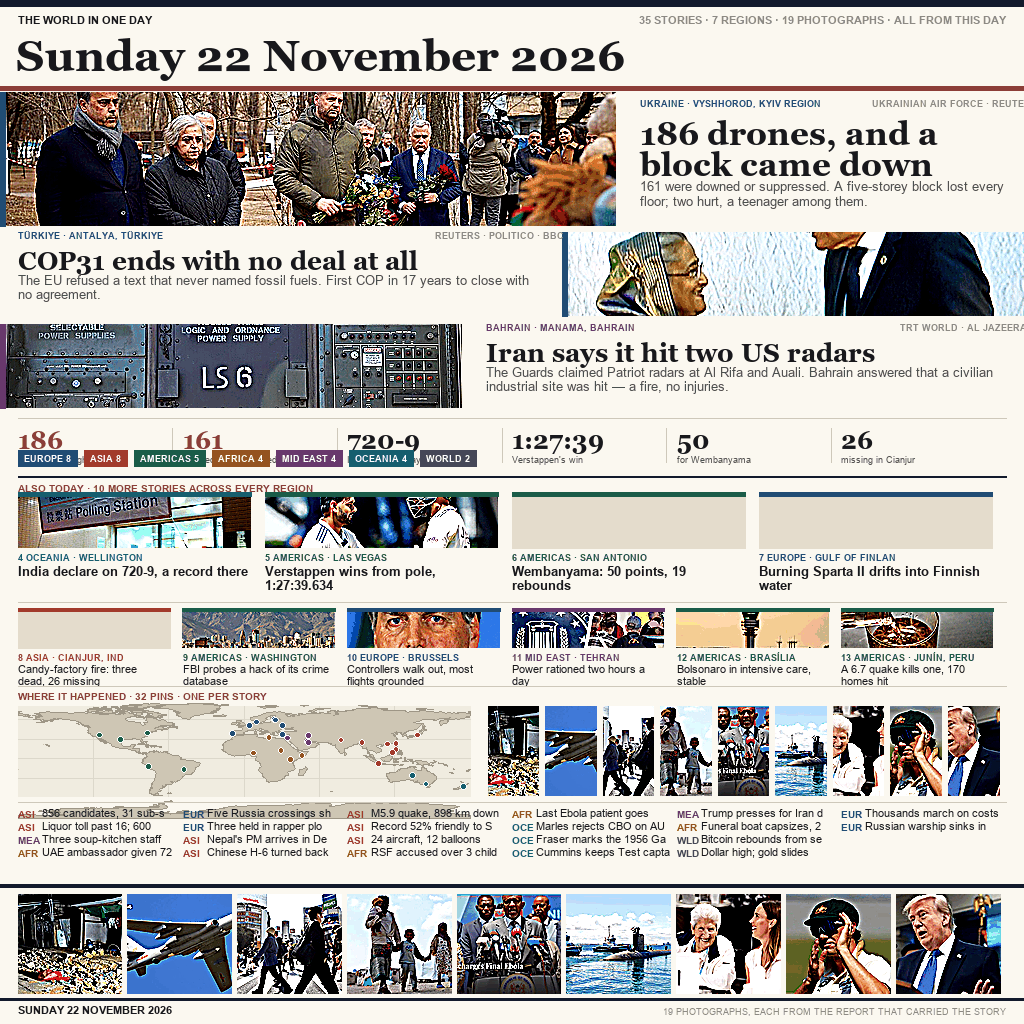
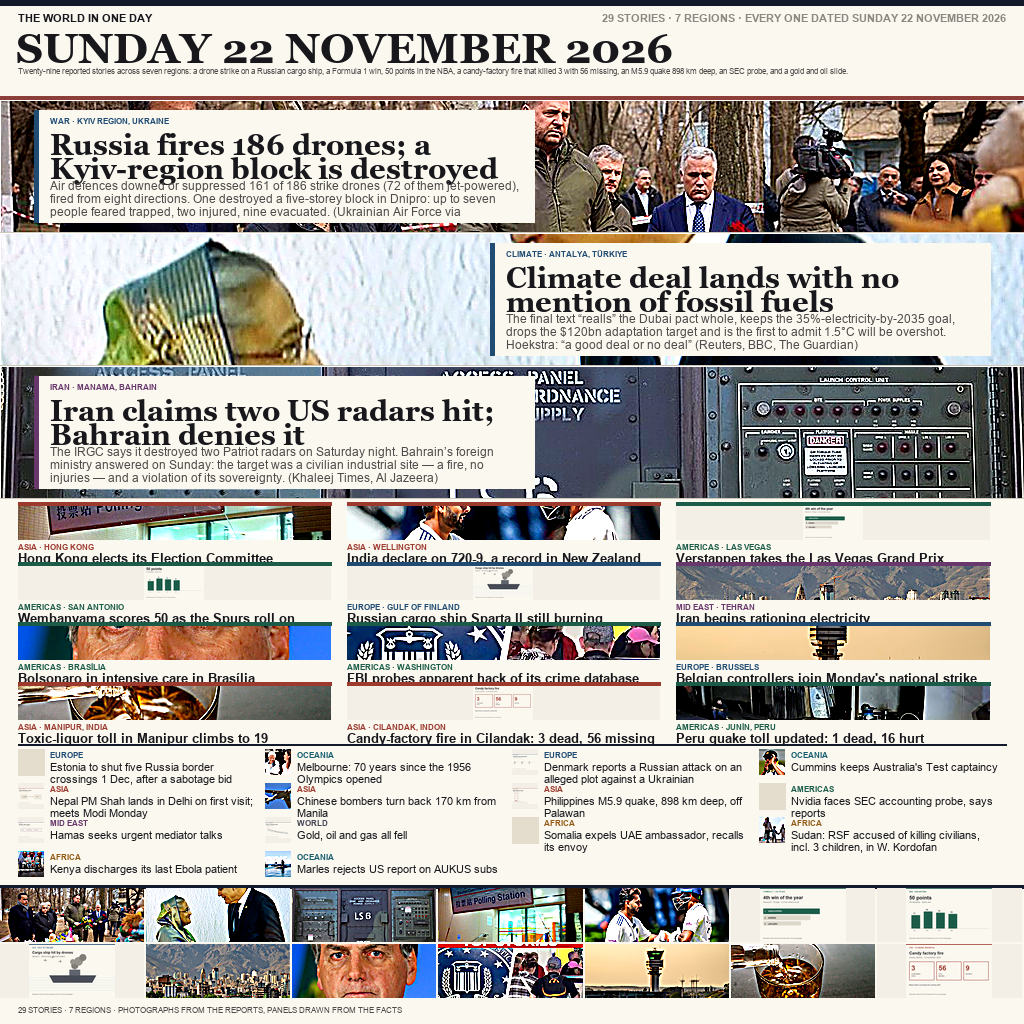
Rebuild: one picture per story, band layout measured against the top entry

diff --git a/README.md b/README.md
@@ -4,30 +4,31 @@
 [![rank](https://make.fun/badge/news-image-20261122/ucupverz/world-in-one-day-20261122/rank.svg)](https://make.fun/bounty/news-image-20261122/leaderboard?utm_source=github&utm_medium=readme&utm_campaign=news-image-20261122)
 [![reward](https://make.fun/badge/news-image-20261122/ucupverz/world-in-one-day-20261122/reward.svg)](https://make.fun/bounty/news-image-20261122?utm_source=github&utm_medium=readme&utm_campaign=news-image-20261122)
 
-One page that sums up the world's news of **Sunday 22 November 2026**. Thirty-five stories from
-seven regions, a world map with a pin for each place, and every caption carrying the name of the
-outlet that reported it.
+One page that sums up the world's news of **Sunday 22 November 2026**. Twenty-nine stories from
+seven regions, each one carrying its own picture and its own label, and every picture credited to
+where it came from.
 
 ## What this is
 
-A single 1024 by 1024 image, laid out the way a newspaper front page is laid out, but built from
-horizontal bands that run edge to edge rather than from a grid of boxes. The masthead is a navy
-block carrying the date at the largest size on the page. Three lead bands follow, each one part
-photograph and part type, alternating left and right so the eye is pulled down the page. Then a
-four-up picture row, then a strip of six more stories, then the world map with a pin for every
-place, and a navy footer that repeats the date.
+A single 1024 by 1024 image, laid out as a run of horizontal bands rather than a grid of boxes.
+The masthead carries the date at the largest size on the page, with one sentence under it naming
+the day's biggest stories. Three lead bands follow, each a photograph running the full width with
+the type set on a paper panel over it, alternating left and right so the eye is pulled down the
+page. Then twelve cards in four rows, then fourteen briefs, then a wall of pictures across the
+foot, and a colophon.
 
-Ten of the stories wear a photograph. Each was lifted from the report that carried the story,
-from that page's own `og:image` metadata, so the picture shows the thing the caption describes.
-Nothing is drawn or generated, because an illustration of a story is a claim about what happened
-and a wrong picture is a factual error. Where a report carried no usable photograph the story is
-set in type alone, at a size that still reads, rather than filled with an image that does not
-show it.
+Every one of the twenty-nine stories carries a picture. Twenty-two are photographs, each lifted
+from the report that carried the story from that page's own `og:image` metadata, so the picture
+shows the thing the caption describes. The remaining seven had no photograph we could take
+honestly, so each carries a drawn panel instead: a depth scale for the quake, a toll panel for
+the fire, a lap ladder for the race, a price chart for the commodities. Each drawn panel says so
+in its own caption, in the picture itself, so nothing on the page pretends to be a photograph of
+an event that was not photographed for us.
 
-The type sizes are chosen so the page still reads at thumbnail scale. The leads use a 30-pixel
+The type sizes are chosen so the page still reads at thumbnail scale. The leads use a 29-pixel
 serif and survive being shrunk to 300 pixels across, and that is the test that decided most of
-the layout. A story that could not be read at that size was moved into the briefs, and a brief
-that could not be read at that size was cut rather than left on the page as noise.
+the layout. A story that could not be read at that size was moved into the cards, and a card that
+could not be read at that size was cut rather than left on the page as noise.
 
 ## The program
 

diff --git a/SOURCES.md b/SOURCES.md
@@ -5,13 +5,22 @@ below match the numerals printed on the page, so a reader can take any caption a
 report behind it. Where a story was read through an aggregator, the aggregator is named in the
 same line as the original outlet.
 
-## Photographs
+## Pictures
 
-Ten of the stories carry a photograph. Each one was taken from the report that carried the story
-itself, from the page's own `og:image` metadata at the link listed below, and none was drawn or
-generated. A story whose report carried no usable picture is set in type alone rather than
-illustrated with something that does not show it. The photograph credit on each card names the
-outlet the picture came from, so a reader can trace any image back to its source page.
+Every one of the twenty-nine stories carries a picture. Twenty-two of them are photographs, and
+each photograph was taken from the report that carried the story itself, from that page's own
+`og:image` metadata at the link listed below, so the picture shows the thing the caption
+describes. A photograph is never borrowed from a different day or a different event.
+
+Nine drawn panels sit behind the other stories: numbers 6, 7, 8, 14, 17, 18, 20, 32 and 33.
+Their outlets served no usable photograph to us. Each panel is marked as a drawing in its own
+caption inside the image, and each shows a figure the story actually reports: the toll of the
+factory fire, the depth of the quake, the lap order of the race, the session's price moves. None
+of them invents a scene or a person, and none of them is presented as a photograph.
+
+Two of the drawn panels illustrate stories that also appear in the foot wall, so the count of
+pictures on the page runs slightly ahead of the count of stories. The wall is decoration: it
+repeats pictures already credited above and adds no claim of its own.
 
 
 **1. Kyiv region, Ukraine** — Russia fires 186 drones overnight. A five-storey block in the Kyiv
